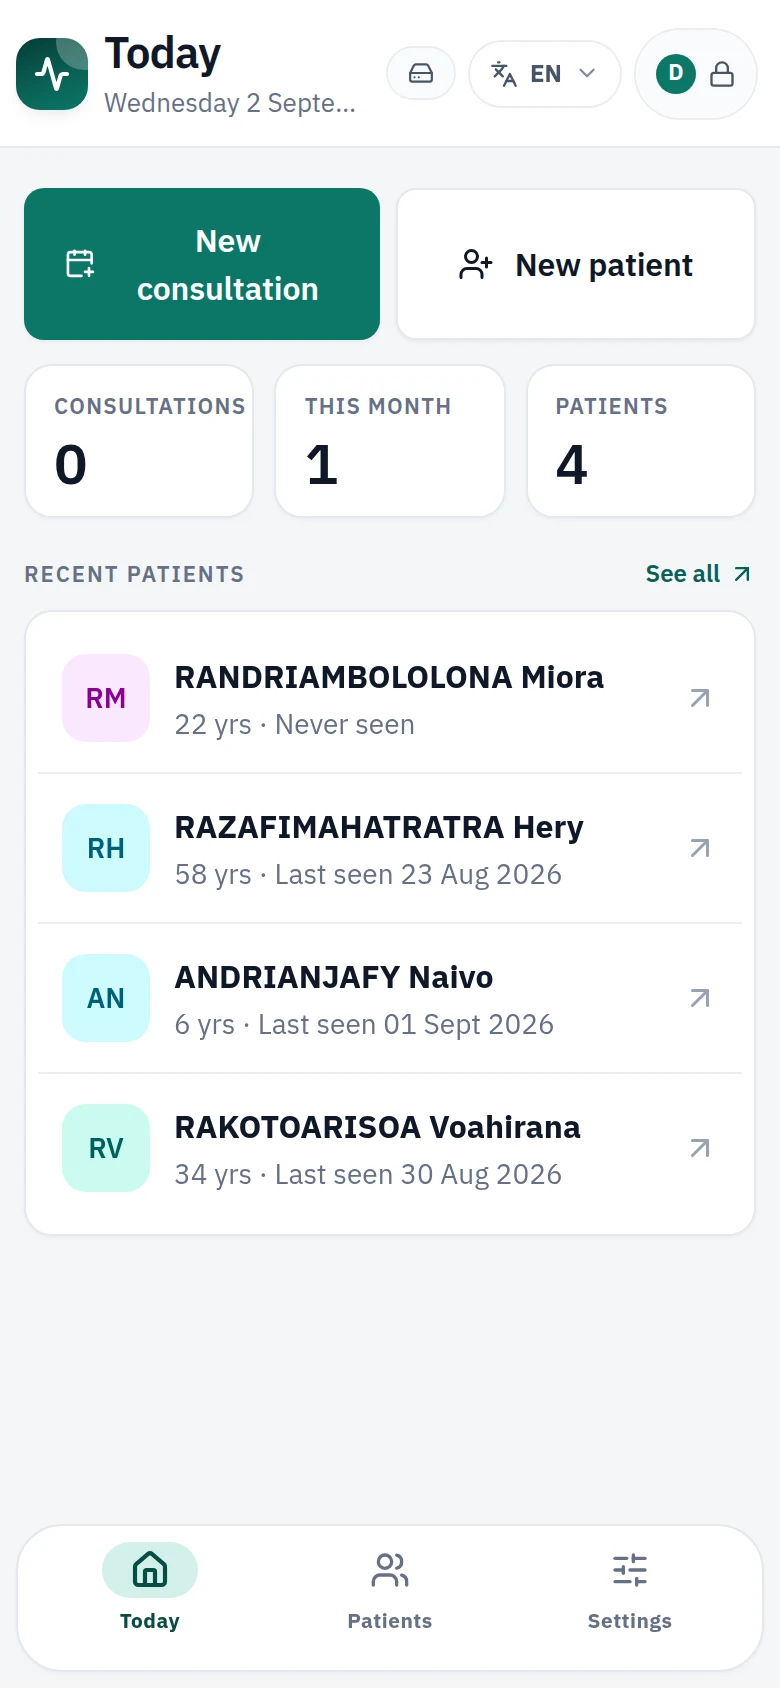
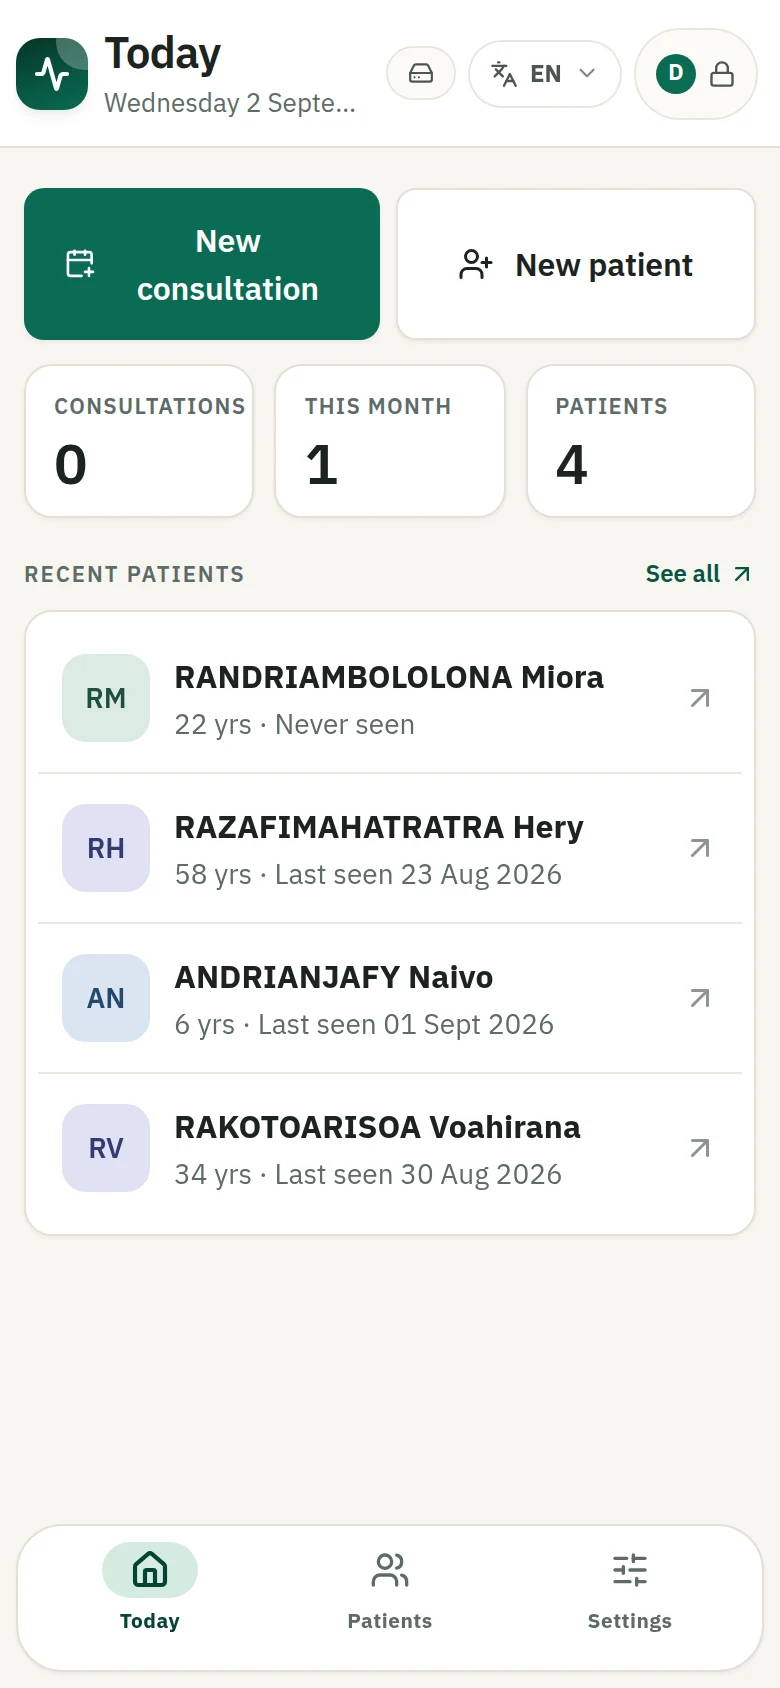
Move the ground from clinical blue-grey to paper
Same flat, high-contrast treatment; a warmer ground under it. #F7F5F0 instead
of #F4F6F8, a green-black ink (#1C2321) instead of a blue-black, warm
hairlines, and shadows cast in the ink's own hue rather than neutral grey.

Cool blue-grey is the safe choice and it is what DHIS2 and Carbon do, but it
makes a phone in a hot room look like a hospital IT system. Warm grey holds
the same contrast ratios against the ink and the white cards while reading as
a form on a desk, and this screen is usually being held next to an actual
paper register.

Warmth has to go all the way through or not at all. Three things were still
cool and had to move with it:

- The avatar palette was Tailwind's default 100/800 pairs, which go candy
  bright against paper — bg-fuchsia-100 next to #F7F5F0 looks like a sticker.
  Replaced with seven hand-mixed pairs at the same hues, desaturated and
  warmed. Seven rather than eight: the eighth slot kept wanting to be a rose
  or a clay, and both are close enough to the triage red and amber to be
  misread across a room.
- The disabled primary button was white on the hairline colour, which on a
  warm ground stopped reading as disabled and started reading as a second live
  action — on the lock screen, where Unlock is disabled until the PIN is long
  enough, that is the only button on the card.
- theme-color and the manifest background still named the old teal and a cool
  white, so the Android splash and status bar would have flashed cool before
[…]

Changed region(s): [[0.0615, 0.3697, 0.2154, 0.5545], [0.0923, 0.6469, 0.1846, 0.7085], [0.1231, 0.5853, 0.1538, 0.6161]]

diff --git a/src/index.css b/src/index.css
@@ -37,75 +37,83 @@
 /*
   AfyaCore visual language
 
-  Cool, flat and high-contrast. The previous treatment was glass and gradient,
-  which reads as a consumer app and, more practically, spends contrast on
-  decoration: translucency over a coloured ground is exactly what fails on a
-  cheap LCD held under a metal roof in daylight.
+  Warm, flat and high-contrast, on a paper ground.
 
-  So: an opaque cool ground, white surfaces, a hairline instead of a shadow, and
-  colour reserved for meaning. Depth comes from a 1px border and a shadow you
-  have to look for, not from blur.
+  The previous treatment was glass and gradient, which reads as a consumer app
+  and, more practically, spends contrast on decoration: translucency over a
+  coloured ground is exactly what fails on a cheap LCD held under a metal roof
+  in daylight. So: an opaque ground, white surfaces, a hairline instead of a
+  shadow, and colour reserved for meaning. Depth comes from a 1px border and a
+  shadow you have to look for, not from blur.
 
-  The palette is cool because the systems this app has to sit beside are cool.
-  DHIS2, IBM Carbon and the NHS design system are all blue-grey or neutral, and
-  those are the tools the people deploying this already use every day.
+  The ground is #F7F5F0 — paper, not screen. A cool blue-grey is the safe
+  choice, and it is what DHIS2 and IBM Carbon do, but it also makes a phone in
+  a hot room look like a hospital IT system. Warm grey holds exactly the same
+  contrast ratios against the ink and the white cards, and reads as a form on a
+  desk. The screen this runs on is usually being held next to an actual paper
+  register, and matching that is worth more here than matching a dashboard.
+
+  Warmth is carried all the way through rather than dropped on top: the ink is
+  a green-black rather than a blue-black, the hairlines are warm, and the
+  shadows are cast in the ink's own hue. A warm ground under cool grey lines is
+  the one combination that looks worse than either done properly.
 */
 @theme {
   /* --- Ground and surfaces ------------------------------------------- */
-  --color-ground: #f4f6f8;
+  --color-ground: #f7f5f0;
   --color-surface: #ffffff;
-  --color-sunken: #f8fafc;
-  --color-line: #e3e8ee;
-  --color-line-strong: #cbd5e1;
+  --color-sunken: #fbf9f5;
+  --color-line: #e4dfd5;
+  --color-line-strong: #cfc8ba;
 
-  /* --- Ink. Cool near-black, never pure black: #000 on white vibrates - */
-  --color-ink: #101828;
-  --color-ink-2: #475467;
-  --color-ink-3: #667085;
-  --color-ink-4: #98a2b3;
+  /* --- Ink. Warm near-black, never pure black: #000 on paper vibrates - */
+  --color-ink: #1c2321;
+  --color-ink-2: #4a5551;
+  --color-ink-3: #5d6b66;
+  --color-ink-4: #8c948f;
 
-  /* --- Brand. A deep teal: AfyaCore's own, cooled to sit on the ground - */
-  --color-brand-50: #edf9f7;
-  --color-brand-100: #d3f0ea;
-  --color-brand-200: #a8e1d6;
-  --color-brand-300: #6fcbba;
-  --color-brand-400: #35ae99;
-  --color-brand-500: #12907c;
-  --color-brand-600: #0c7768;
-  --color-brand-700: #0a6055;
-  --color-brand-800: #084c44;
-  --color-brand-900: #063c36;
+  /* --- Brand. AfyaCore's teal, pulled green to sit on the paper ------- */
+  --color-brand-50: #edf6f1;
+  --color-brand-100: #d5ebe0;
+  --color-brand-200: #a9d7c3;
+  --color-brand-300: #6fbb9e;
+  --color-brand-400: #33997a;
+  --color-brand-500: #128063;
+  --color-brand-600: #0a6b52;
+  --color-brand-700: #085541;
+  --color-brand-800: #064334;
+  --color-brand-900: #05352a;
 
   /*
     Semantic colour is separate from the brand and never used decoratively.
     On this screen a red pill means a vital is out of range, and nothing else.
   */
-  --color-danger-50: #fef3f2;
-  --color-danger-100: #fee4e2;
-  --color-danger-200: #fecdca;
-  --color-danger-500: #f04438;
-  --color-danger-600: #d92d20;
-  --color-danger-700: #b42318;
+  --color-danger-50: #fdeceb;
+  --color-danger-100: #f9d8d6;
+  --color-danger-200: #f2b8b5;
+  --color-danger-500: #c33a3c;
+  --color-danger-600: #a4262c;
+  --color-danger-700: #861f22;
 
-  --color-warn-50: #fffaeb;
-  --color-warn-100: #fef0c7;
-  --color-warn-200: #fedf89;
-  --color-warn-500: #f79009;
-  --color-warn-600: #dc6803;
-  --color-warn-700: #b54708;
+  --color-warn-50: #fdf3e0;
+  --color-warn-100: #f9e6c2;
+  --color-warn-200: #f1d193;
+  --color-warn-500: #c07c11;
+  --color-warn-600: #a06509;
+  --color-warn-700: #8a5300;
 
-  --color-ok-50: #ecfdf3;
-  --color-ok-100: #dcfae6;
-  --color-ok-200: #abefc6;
-  --color-ok-500: #17b26a;
-  --color-ok-600: #079455;
-  --color-ok-700: #067647;
+  --color-ok-50: #edf6ee;
+  --color-ok-100: #d3ebd7;
+  --color-ok-200: #a8d6b1;
+  --color-ok-500: #3d9a56;
+  --color-ok-600: #2d7e44;
+  --color-ok-700: #246536;
 
-  --color-info-50: #eff8ff;
-  --color-info-100: #d1e9ff;
-  --color-info-200: #b2ddff;
-  --color-info-600: #1570ef;
-  --color-info-700: #175cd3;
+  --color-info-50: #eff4fa;
+  --color-info-100: #dae6f2;
+  --color-info-200: #b7cfe6;
+  --color-info-600: #2a6299;
+  --color-info-700: #1f4d7b;
 
   --font-sans:
     'IBM Plex Sans Variable', 'IBM Plex Sans', ui-sans-serif, system-ui, -apple-system,
@@ -118,11 +126,13 @@
   /*
     Shadows do almost nothing on purpose. A 1px line separates a card from the
     ground; the shadow only says which of two overlapping things is on top.
+    Cast in the ink's hue, because a neutral-grey shadow on a warm ground reads
+    as dirt on the screen.
   */
-  --shadow-xs: 0 1px 2px rgb(16 24 40 / 0.05);
-  --shadow-card: 0 1px 2px rgb(16 24 40 / 0.04);
-  --shadow-lift: 0 4px 8px -2px rgb(16 24 40 / 0.08), 0 2px 4px -2px rgb(16 24 40 / 0.04);
-  --shadow-float: 0 12px 16px -4px rgb(16 24 40 / 0.1), 0 4px 6px -2px rgb(16 24 40 / 0.04);
+  --shadow-xs: 0 1px 2px rgb(28 35 33 / 0.06);
+  --shadow-card: 0 1px 2px rgb(28 35 33 / 0.05);
+  --shadow-lift: 0 4px 8px -2px rgb(28 35 33 / 0.09), 0 2px 4px -2px rgb(28 35 33 / 0.05);
+  --shadow-float: 0 12px 16px -4px rgb(28 35 33 / 0.1), 0 4px 6px -2px rgb(28 35 33 / 0.05);
   --ease-out-quint: cubic-bezier(0.22, 1, 0.36, 1);
 }
 
@@ -131,14 +141,14 @@
     min-height: 100%;
     -webkit-text-size-adjust: 100%;
     -webkit-tap-highlight-color: transparent;
-    background: #f4f6f8;
+    background: #f7f5f0;
   }
 
   body {
     min-height: 100%;
-    color: #101828;
+    color: #1c2321;
     /* Flat. Nothing behind the content competing with it for attention. */
-    background: #f4f6f8;
+    background: #f7f5f0;
     font-synthesis-weight: none;
   }
 
@@ -160,7 +170,7 @@
     use this on a cracked screen; a subtle focus state is no focus state.
   */
   :focus-visible {
-    outline: 2px solid #0c7768;
+    outline: 2px solid #0a6b52;
     outline-offset: 2px;
     border-radius: 0.375rem;
   }
@@ -199,7 +209,7 @@
 }
 
 /*
-  The card surface. Opaque white on the cool ground, separated by a hairline
+  The card surface. Opaque white on the paper ground, separated by a hairline
   rather than a drop shadow, which is what keeps a screen of eight cards from
   looking like eight floating objects.
 */
@@ -221,7 +231,7 @@
   costs nothing. Deep enough that white text clears AA comfortably.
 */
 @utility bg-brand-gradient {
-  background-image: linear-gradient(160deg, #063c36 0%, #0a6055 55%, #0c7768 100%);
+  background-image: linear-gradient(160deg, #05352a 0%, #085541 55%, #0a6b52 100%);
 }
 
 @utility press {
@@ -279,7 +289,7 @@
 .skeleton {
   position: relative;
   overflow: hidden;
-  background: rgb(203 213 225 / 0.35);
+  background: rgb(207 200 186 / 0.4);
 }
 
 .skeleton::after {

diff --git a/src/lib/avatar.ts b/src/lib/avatar.ts
@@ -10,16 +10,25 @@
  * reliably produces muddy yellows and eye-searing magentas at some inputs.
  * Every pair here is legible in daylight and none of them read as a clinical
  * status colour, red, amber and green are reserved for triage.
+ *
+ * Written as literal hex rather than Tailwind's default scales, because those
+ * are tuned for a cool ground and go candy-bright against this app's paper
+ * one: `bg-fuchsia-100` next to `#F7F5F0` looks like a sticker, not a record.
+ * These are the same hues pulled down in saturation and warmed to sit on
+ * paper.
+ *
+ * There are seven, not eight. The eighth slot kept wanting to be a rose or a
+ * clay, and both of those are close enough to the triage red and amber to be
+ * misread across a room, which is the one thing this palette must not do.
  */
 const PALETTE = [
-  { bg: 'bg-teal-100', fg: 'text-teal-800' },
-  { bg: 'bg-sky-100', fg: 'text-sky-800' },
-  { bg: 'bg-indigo-100', fg: 'text-indigo-800' },
-  { bg: 'bg-violet-100', fg: 'text-violet-800' },
-  { bg: 'bg-fuchsia-100', fg: 'text-fuchsia-800' },
-  { bg: 'bg-rose-100', fg: 'text-rose-800' },
-  { bg: 'bg-cyan-100', fg: 'text-cyan-800' },
-  { bg: 'bg-blue-100', fg: 'text-blue-800' },
+  { bg: 'bg-[#DCEBE3]', fg: 'text-[#1E5040]' }, // eucalyptus
+  { bg: 'bg-[#D7E9EE]', fg: 'text-[#17505A]' }, // lagoon
+  { bg: 'bg-[#DBE5F1]', fg: 'text-[#24486C]' }, // denim
+  { bg: 'bg-[#E0E1F3]', fg: 'text-[#343A72]' }, // periwinkle
+  { bg: 'bg-[#E7E0F1]', fg: 'text-[#453268]' }, // iris
+  { bg: 'bg-[#EFDFEA]', fg: 'text-[#5E2B4E]' }, // plum
+  { bg: 'bg-[#E5E3DE]', fg: 'text-[#4B4741]' }, // stone
 ]
 
 function hash(input: string): number {

diff --git a/src/components/ui.tsx b/src/components/ui.tsx
@@ -46,13 +46,18 @@ interface ButtonProps extends ButtonHTMLAttributes<HTMLButtonElement> {
 const BUTTON_STYLES: Record<ButtonVariant, string> = {
   primary:
     'bg-brand-600 text-white shadow-xs hover:bg-brand-700 active:bg-brand-800 ' +
-    'disabled:bg-line-strong disabled:text-white disabled:shadow-none',
+    // Disabled is a filled-in slot, not a paler button. White on the hairline
+    // colour reads as a second live action on a warm ground, which is exactly
+    // the mistake to avoid on a lock screen where the only button is disabled
+    // until the PIN is long enough.
+    'disabled:bg-line disabled:text-ink-4 disabled:shadow-none',
   secondary:
     'bg-surface text-ink border border-line shadow-xs hover:bg-sunken active:bg-line/60 ' +
     'disabled:text-ink-4 disabled:shadow-none',
   ghost: 'bg-transparent text-ink-2 hover:bg-line/50 active:bg-line disabled:text-ink-4',
   danger:
-    'bg-danger-600 text-white shadow-xs hover:bg-danger-700 active:bg-danger-700 disabled:bg-line-strong',
+    'bg-danger-600 text-white shadow-xs hover:bg-danger-700 active:bg-danger-700 ' +
+    'disabled:bg-line disabled:text-ink-4 disabled:shadow-none',
   onDark: 'bg-white/12 text-white ring-1 ring-white/25 hover:bg-white/20',
 }
 

diff --git a/src/components/DictationPanel.tsx b/src/components/DictationPanel.tsx
@@ -110,7 +110,7 @@ export function DictationPanel({ onApply }: DictationPanelProps) {
           aria-pressed={listening}
           className={cx(
             'press press-active relative grid size-16 shrink-0 place-items-center rounded-[1.35rem] text-white shadow-lift ring-1 ring-white/25',
-            'disabled:bg-slate-300 disabled:shadow-none',
+            'disabled:bg-line disabled:text-ink-4 disabled:shadow-none',
             listening ? 'bg-danger-600' : 'bg-brand-gradient active:brightness-95',
           )}
         >

diff --git a/src/routes/PatientProfile.tsx b/src/routes/PatientProfile.tsx
@@ -48,7 +48,7 @@ function TimelineEntry({
   return (
     <li className="animate-rise relative flex gap-3 pb-3" style={riseStyle(index)}>
       <div className="flex flex-col items-center pt-4">
-        <span className={cx('size-2.5 shrink-0 rounded-full ring-4 ring-slate-50', dot)} />
+        <span className={cx('size-2.5 shrink-0 rounded-full ring-4 ring-ground', dot)} />
         {!isLast && <span className="mt-1 w-px flex-1 bg-line" />}
       </div>
 

diff --git a/index.html b/index.html
@@ -7,7 +7,7 @@
       name="viewport"
       content="width=device-width, initial-scale=1.0, viewport-fit=cover, maximum-scale=1.0, user-scalable=no"
     />
-    <meta name="theme-color" content="#0f766e" />
+    <meta name="theme-color" content="#0a6b52" />
     <meta name="apple-mobile-web-app-capable" content="yes" />
     <meta name="description" content="Dossier patient hors ligne pour les centres de santé" />
     <title>AfyaCore</title>

diff --git a/vite.config.ts b/vite.config.ts
@@ -50,8 +50,8 @@ export default defineConfig({
         short_name: 'AfyaCore',
         description: 'Dossier patient hors ligne / Rakitra marary tsy mila aterineto',
         lang: 'fr',
-        theme_color: '#0f766e',
-        background_color: '#f8fafc',
+        theme_color: '#0a6b52',
+        background_color: '#f7f5f0',
         display: 'standalone',
         orientation: 'portrait',
         start_url: '/',

diff --git a/README.md b/README.md
@@ -49,15 +49,20 @@ breathe:
 
 ## The interface
 
-Flat, cool and high-contrast, on an opaque `#F4F6F8` ground. The earlier treatment was glass and
-gradient, which reads as a consumer app and, more to the point, spends contrast on decoration:
+Flat, warm and high-contrast, on an opaque `#F7F5F0` paper ground. The earlier treatment was glass
+and gradient, which reads as a consumer app and, more to the point, spends contrast on decoration:
 translucency over a coloured ground is exactly what fails on a cheap LCD held under a metal roof at
 midday. Depth here comes from a 1px hairline and a shadow you have to look for. Colour is reserved
 for meaning — a red pill on this screen means a vital is out of range and nothing else.
 
-The palette is cool because the systems this app has to sit beside are cool. DHIS2, IBM Carbon
-(which OpenMRS 3 is built on) and the NHS design system are all blue-grey or neutral, and those are
-the tools the people deploying this already use.
+The ground is paper, not screen. Cool blue-grey is the safe choice and it is what DHIS2 and IBM
+Carbon (which OpenMRS 3 is built on) do, but it also makes a phone in a hot room look like a
+hospital IT system. Warm grey holds the same contrast ratios against the ink and the white cards
+while reading as a form on a desk, and the screen this runs on is usually being held right next to
+an actual paper register. Warmth is carried all the way through rather than dropped on top: the ink
+is a green-black rather than a blue-black (`#1C2321`), the hairlines are warm, and shadows are cast
+in the ink's own hue. A warm ground under cool grey lines is the one combination that looks worse
+than either done properly.
 
 Type is **IBM Plex Sans**, and it is now actually shipped. The stack previously named `Inter` and
 never loaded it, so on an Android phone the app silently rendered in whatever the system happened to
